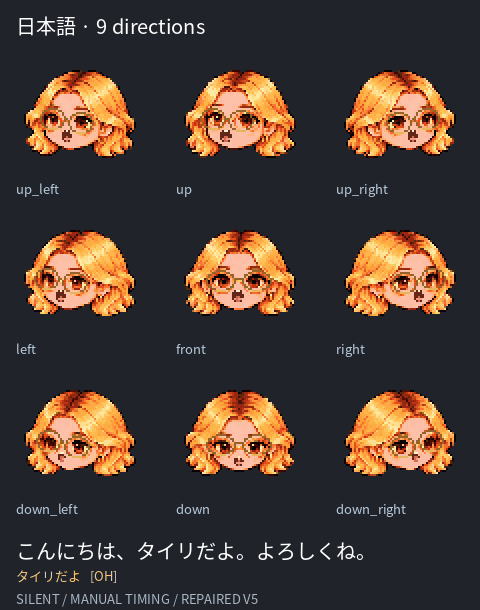
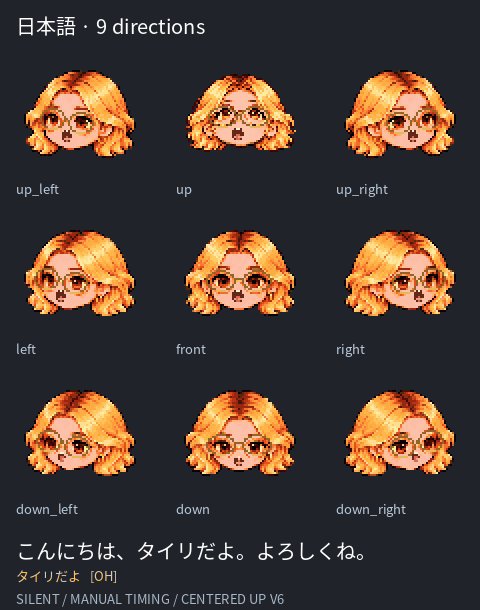
Update three-language greeting GIFs and UP comparison for v6

Changed region(s): [[0.375, 0.0934, 0.625, 0.2803], [0.375, 0.9656, 0.5938, 0.9967]]

diff --git a/previews/README.md b/previews/README.md
@@ -1,6 +1,6 @@
 # Greeting review
 
-The 3 GIFs each display all 9 directions simultaneously using the repaired v5 sprite atlas with 12 mouth shapes.
+The 3 GIFs each display all 9 directions simultaneously using the repaired v6 sprite atlas with 12 mouth shapes.
 Mouth positions and down-view sizes were corrected; glasses are reinforced.
 
 - Korean: 안녕, 난 타이리야, 반가워
@@ -20,3 +20,7 @@ head silhouette. Side-view mouth projection remains approximate and low-resoluti
 lip contours remain stylized. Real multilingual audio synchronization remains untested.
 
 All files are covered by the repository's personal/noncommercial research license.
+
+## Centered UP base (v6)
+
+The UP pose now uses a dedicated frontal, upward-pitched source with centered nose, glasses and mouth landmarks. Other eight directions are unchanged. See `up_before_after.png`. The pitch is stylized, not a calibrated 3D angle.
